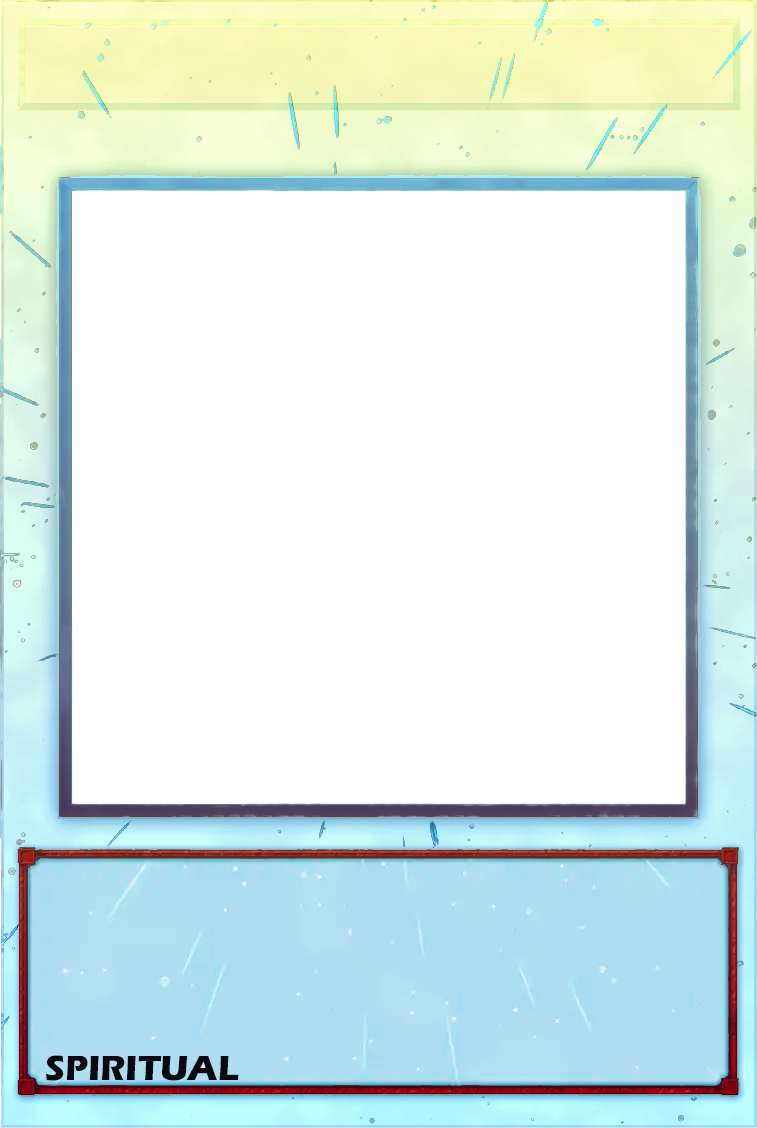
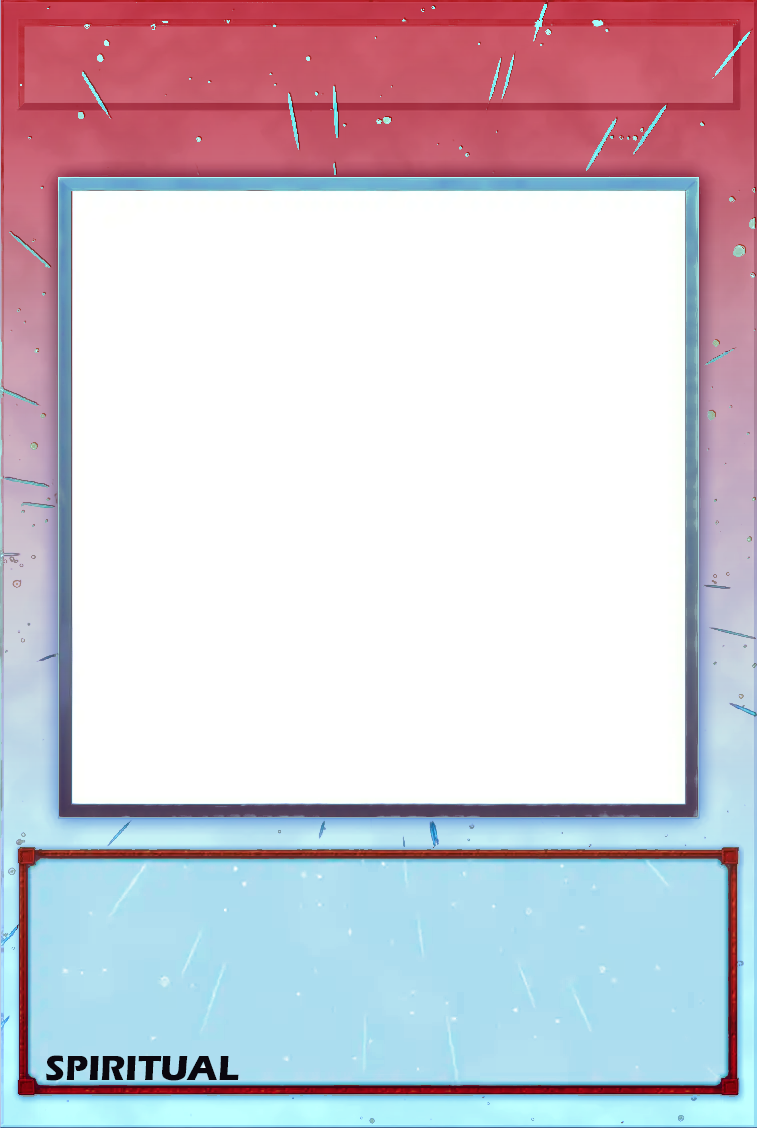
Update Spiritual frame

Changed region(s): [[0.0, 0.0, 1.0, 0.6826], [0.0, 0.9929, 1.0, 1.0]]

diff --git a/Scripts/DB_Custom_Frames.user.js b/Scripts/DB_Custom_Frames.user.js
@@ -1,7 +1,7 @@
 // ==UserScript==
 // @name         DB_Custom_Frames
 // @namespace    http://tampermonkey.net/
-// @version      1.8.6
+// @version      1.8.7
 // @homepageURL  https://github.com/yanislavivanovyanev/YIY_YGO_Customs/
 // @updateURL    https://raw.githubusercontent.com/yanislavivanovyanev/YIY_YGO_Customs/main/Scripts/DB_Custom_Frames.user.js
 // @downloadURL  https://raw.githubusercontent.com/yanislavivanovyanev/YIY_YGO_Customs/main/Scripts/DB_Custom_Frames.user.js
@@ -14,7 +14,7 @@
 (function() {
     'use strict';
 
-    const VERSION = "v2.0";
+    const VERSION = "v2.1";
 
     const URL_START = "https://yanislavivanovyanev.github.io/YIY_YGO_Customs/";
 

diff --git a/Scripts/Custom_DB_Custom.user.js b/Scripts/Custom_DB_Custom.user.js
@@ -4,7 +4,7 @@
 // @name         Custom_DB_Custom
 
 // @description  Adds options to customize DB and make it more streamer friendly
-// @version      1.4.6
+// @version      1.4.7
 // @author       Killburne
 // @license		 MIT
 // @namespace    https://www.yugioh-api.com/